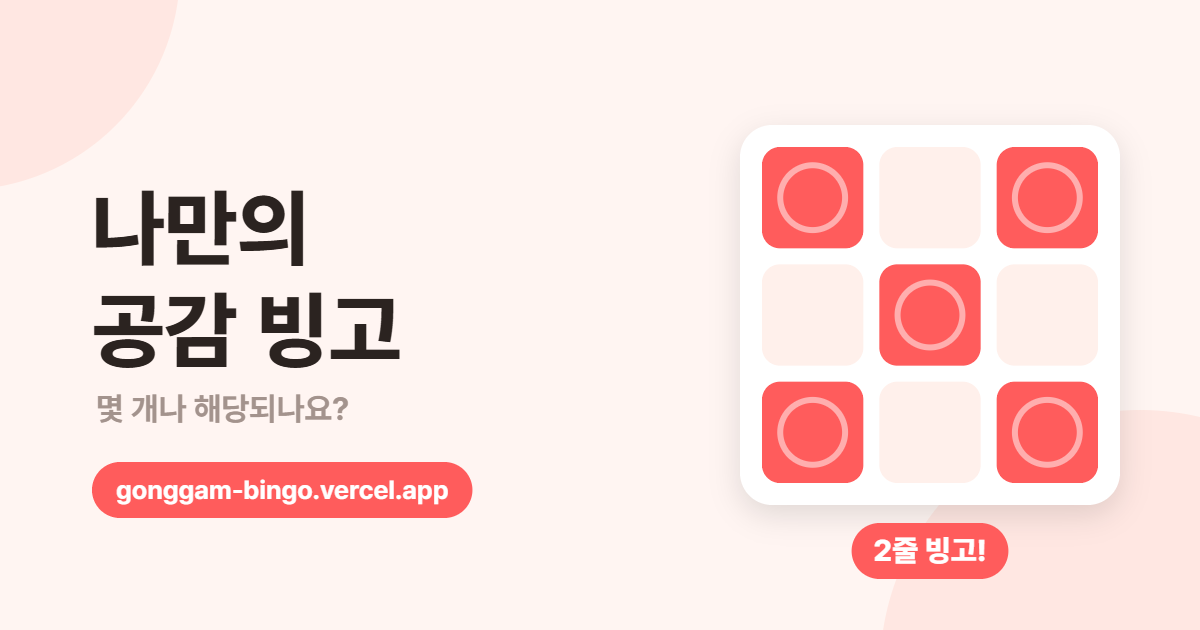
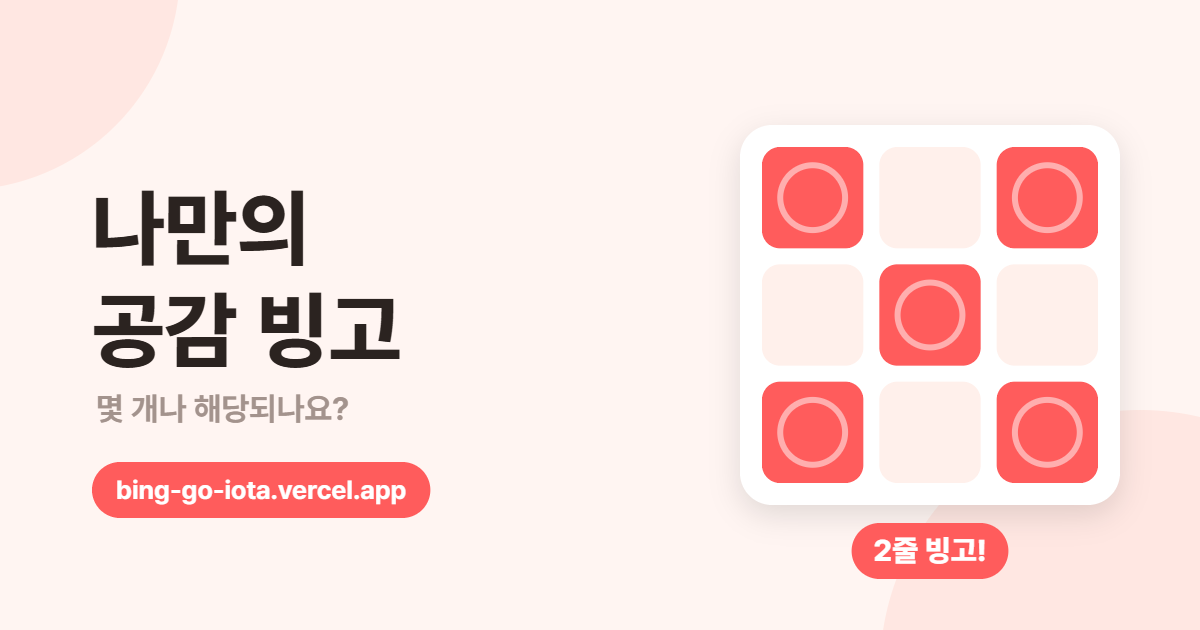
배포 주소를 bing-go-iota.vercel.app 으로 반영
- config.js 의 SITE_ORIGIN 교체
- 세 페이지의 og:url, og:image 절대주소 교체
- 미리보기 이미지를 새 주소로 다시 생성

Changed region(s): [[0.0925, 0.7238, 0.4008, 0.8444]]

diff --git a/play.html b/play.html
@@ -14,10 +14,10 @@
   <meta property="og:type" content="website">
   <meta property="og:site_name" content="나만의 공감 빙고">
   <meta property="og:locale" content="ko_KR">
-  <meta property="og:url" content="https://gonggam-bingo.vercel.app/play.html">
+  <meta property="og:url" content="https://bing-go-iota.vercel.app/play.html">
   <meta property="og:title" content="공감 빙고 - 몇 개나 해당되나요?">
   <meta property="og:description" content="공감되는 칸을 체크하면 결과가 나와요. 친구에게도 보내보세요!">
-  <meta property="og:image" content="https://gonggam-bingo.vercel.app/assets/img/og-default.png">
+  <meta property="og:image" content="https://bing-go-iota.vercel.app/assets/img/og-default.png">
   <meta property="og:image:width" content="1200">
   <meta property="og:image:height" content="630">
   <meta name="twitter:card" content="summary_large_image">

diff --git a/create.html b/create.html
@@ -13,10 +13,10 @@
   <meta property="og:type" content="website">
   <meta property="og:site_name" content="나만의 공감 빙고">
   <meta property="og:locale" content="ko_KR">
-  <meta property="og:url" content="https://gonggam-bingo.vercel.app/create.html">
+  <meta property="og:url" content="https://bing-go-iota.vercel.app/create.html">
   <meta property="og:title" content="나만의 공감 빙고 만들기">
   <meta property="og:description" content="제목과 칸만 채우면 끝. 친구에게 링크로 보내보세요!">
-  <meta property="og:image" content="https://gonggam-bingo.vercel.app/assets/img/og-default.png">
+  <meta property="og:image" content="https://bing-go-iota.vercel.app/assets/img/og-default.png">
   <meta property="og:image:width" content="1200">
   <meta property="og:image:height" content="630">
   <meta name="twitter:card" content="summary_large_image">

diff --git a/index.html b/index.html
@@ -13,10 +13,10 @@
   <meta property="og:type" content="website">
   <meta property="og:site_name" content="나만의 공감 빙고">
   <meta property="og:locale" content="ko_KR">
-  <meta property="og:url" content="https://gonggam-bingo.vercel.app/">
+  <meta property="og:url" content="https://bing-go-iota.vercel.app/">
   <meta property="og:title" content="나만의 공감 빙고">
   <meta property="og:description" content="몇 개나 해당되나요? 체크하고 결과를 친구에게 자랑해 보세요!">
-  <meta property="og:image" content="https://gonggam-bingo.vercel.app/assets/img/og-default.png">
+  <meta property="og:image" content="https://bing-go-iota.vercel.app/assets/img/og-default.png">
   <meta property="og:image:width" content="1200">
   <meta property="og:image:height" content="630">
   <meta name="twitter:card" content="summary_large_image">

diff --git a/assets/js/config.js b/assets/js/config.js
@@ -9,7 +9,7 @@
    ========================================================= */
 var CONFIG = {
   // 배포 주소. 끝에 / 를 붙이지 마세요.
-  SITE_ORIGIN: 'https://gonggam-bingo.vercel.app',
+  SITE_ORIGIN: 'https://bing-go-iota.vercel.app',
 
   // 사이트 이름 (제목, 공유 미리보기, 결과 이미지에 사용)
   SITE_NAME: '나만의 공감 빙고',

diff --git a/README.md b/README.md
@@ -29,7 +29,7 @@
    (예: `https://내사이트.vercel.app`, 끝에 `/` 없이)
 2. `index.html` · `create.html` · `play.html` 맨 위의 **`og:url`, `og:image`** 주소도 같이 바꾸기
    - 카카오톡 미리보기를 읽는 프로그램은 자바스크립트를 실행하지 못해서, 주소를 HTML에 직접 적어야 합니다.
-   - 각 파일에서 `gonggam-bingo.vercel.app` 를 찾아 바꾸면 됩니다.
+   - 각 파일에서 `bing-go-iota.vercel.app` 를 찾아 바꾸면 됩니다.
 3. `tools/og-maker.html` 을 열어 **이미지 저장** → 받은 파일을 `assets/img/og-default.png` 에 덮어쓰기
    (주소가 바뀌었으니 미리보기 이미지 속 주소도 바뀌어야 합니다)
 4. 카카오톡 공유를 쓸 거라면 아래 "카카오 공유 설정"
